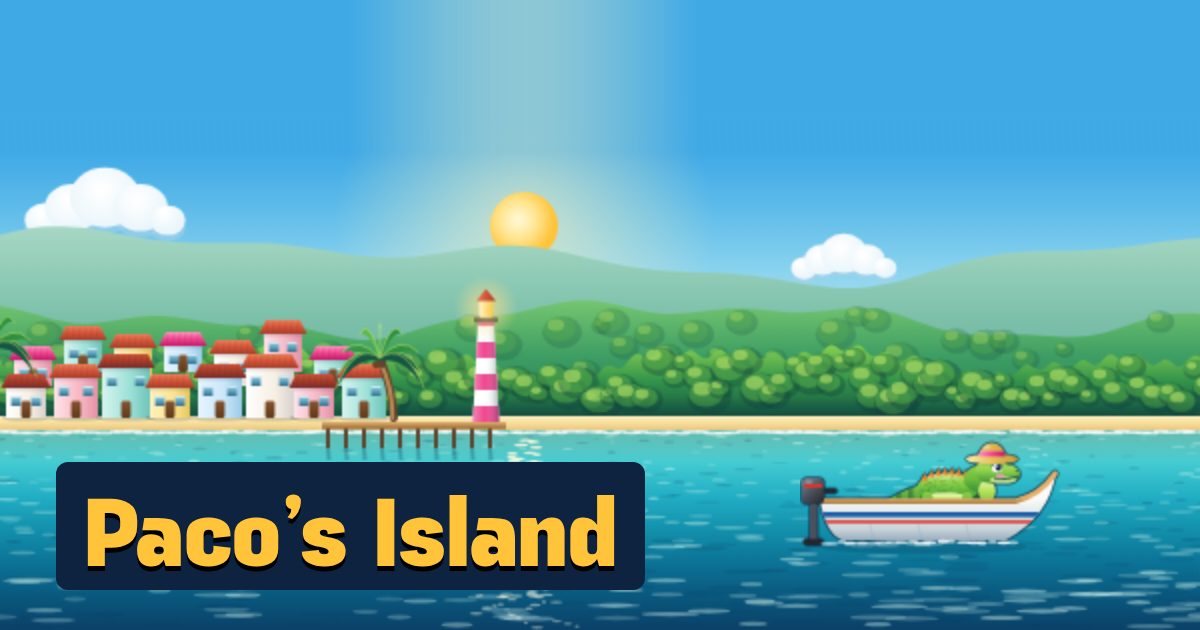
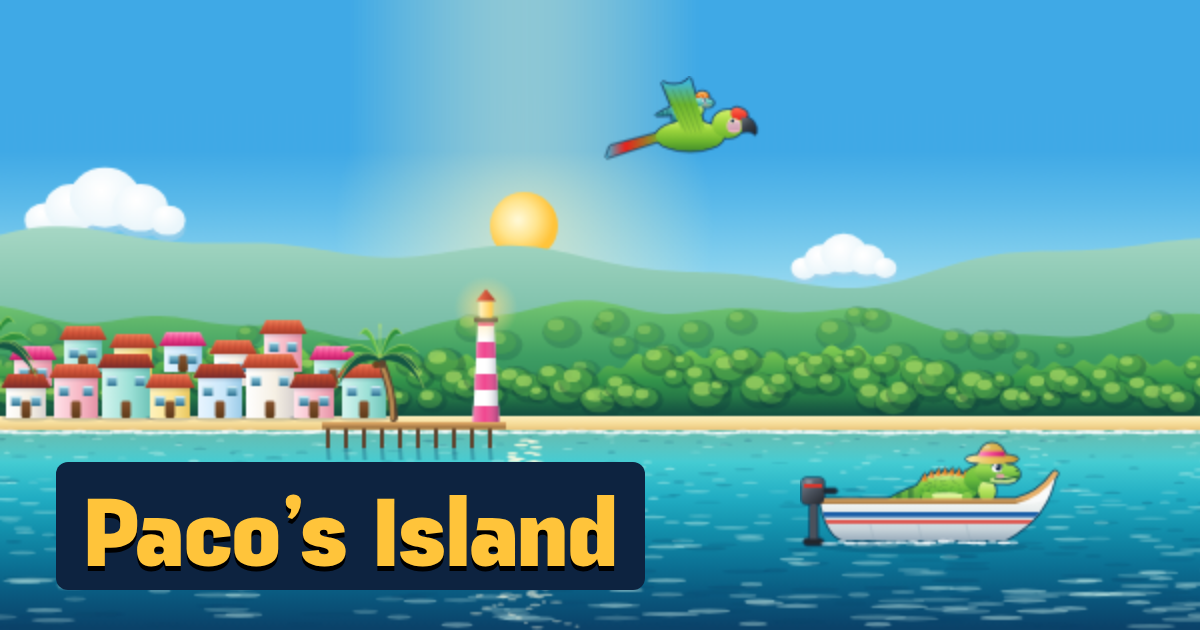
Share card with Mario and Esmeralda; clearer description and title intro
The card adds Esmeralda flying over the bay with Mario on her back.
The page and share description becomes "A daily trivia game. The rarer
your answer, the farther Paco the iguana takes you." The title intro
now fits every trip, not just the boat.

Changed region(s): [[0.4933, 0.1206, 0.6475, 0.2714]]

diff --git a/index.html b/index.html
@@ -4,7 +4,7 @@
 <meta charset="utf-8">
 <meta name="viewport" content="width=device-width, initial-scale=1, viewport-fit=cover">
 <title>Paco's Island</title>
-<meta name="description" content="Pacos Island is a daily trivia game where you try to find answers to random questions.">
+<meta name="description" content="A daily trivia game. The rarer your answer, the farther Paco the iguana takes you.">
 <meta name="theme-color" content="#095565">
 <link rel="manifest" href="manifest.webmanifest">
 <link rel="apple-touch-icon" href="icons/icon-180.png">
@@ -14,16 +14,16 @@
 <meta property="og:url" content="https://pacoisland.fun/">
 <meta property="og:site_name" content="Paco's Island">
 <meta property="og:title" content="Paco's Island">
-<meta property="og:description" content="Pacos Island is a daily trivia game where you try to find answers to random questions.">
+<meta property="og:description" content="A daily trivia game. The rarer your answer, the farther Paco the iguana takes you.">
 <meta property="og:image" content="https://pacoisland.fun/icons/og.png">
 <meta property="og:image:width" content="1200">
 <meta property="og:image:height" content="630">
-<meta property="og:image:alt" content="Paco the iguana in a straw hat rides a boat across a bay past a beach town with a striped lighthouse.">
+<meta property="og:image:alt" content="Paco the iguana rides a boat across a bay past a beach town and a striped lighthouse, while his twin Mario flies overhead on Esmeralda, a green macaw.">
 <meta name="twitter:card" content="summary_large_image">
 <meta name="twitter:title" content="Paco's Island">
-<meta name="twitter:description" content="Pacos Island is a daily trivia game where you try to find answers to random questions.">
+<meta name="twitter:description" content="A daily trivia game. The rarer your answer, the farther Paco the iguana takes you.">
 <meta name="twitter:image" content="https://pacoisland.fun/icons/og.png">
-<meta name="twitter:image:alt" content="Paco the iguana in a straw hat rides a boat across a bay past a beach town with a striped lighthouse.">
+<meta name="twitter:image:alt" content="Paco the iguana rides a boat across a bay past a beach town and a striped lighthouse, while his twin Mario flies overhead on Esmeralda, a green macaw.">
 <link rel="canonical" href="https://pacoisland.fun/">
 <link rel="icon" href="icons/favicon.svg" type="image/svg+xml">
 <link rel="preload" href="fonts/PPFuji-Bold.woff2" as="font" type="font/woff2" crossorigin>

diff --git a/tools/og.html b/tools/og.html
@@ -20,5 +20,8 @@ canvas { position: absolute; left: 0; top: 0; width: 1200px; height: 630px; }
   g.drawImage(strip, X, 0, 600, 240, 0, 75, 600, 240);
   const b = Art.boat(0);
   g.drawImage(b, 400, 75 + Art.COAST.horizon + 55 - b.height + 9);
+  // Esmeralda overhead, with Paco's twin Mario on her back
+  Art.setRider('mario'); const f = Art.flier(0); Art.setRider('paco');
+  g.drawImage(f, 300, 38);
   document.title = 'ready';
 </script></body></html>

diff --git a/js/copy.js b/js/copy.js
@@ -6,7 +6,7 @@
 'use strict';
 const Copy = {
   title: "Paco’s Island",
-  intro: 'Paco is an iguana with a boat. The rarer your answer, the farther he takes you.',
+  intro: 'Paco the iguana shows you around his island. The rarer your answer, the farther he takes you.',
   howHeading: 'How to play',
   how: [
     'Type a right answer before time runs out. Wrong guesses cost only time.',

diff --git a/tools/og.py b/tools/og.py
@@ -9,7 +9,8 @@ H = functools.partial(http.server.SimpleHTTPRequestHandler, directory=str(ROOT))
 H.log_message = lambda *a: None
 srv = socketserver.TCPServer(('127.0.0.1', 0), H); threading.Thread(target=srv.serve_forever, daemon=True).start()
 with sync_playwright() as p:
-    b = p.chromium.launch(executable_path='/usr/bin/google-chrome')
+    chrome = '/usr/bin/google-chrome'
+    b = p.chromium.launch(executable_path=chrome) if pathlib.Path(chrome).exists() else p.chromium.launch()
     pg = b.new_page(viewport={'width': 1200, 'height': 630})
     pg.goto(f'http://127.0.0.1:{srv.server_address[1]}/tools/og.html?x={x}')
     pg.wait_for_function("document.title === 'ready'"); pg.evaluate('document.fonts.ready'); pg.wait_for_timeout(300)

diff --git a/docs/aar/2026-11-17-share-card-and-intro.md b/docs/aar/2026-11-17-share-card-and-intro.md
@@ -1,0 +1,25 @@
+# After action record: share card, page description and title intro
+
+**Date:** November 17, 2026
+**Accountable human:** Ron Bronson, game owner
+
+## 1. Intent
+
+The owner said to update the title screen and the Open Graph card if it was time.
+
+## 2. Action
+
+- **Share card:** `tools/og.html` now adds Esmeralda flying over the bay with Mario on her back, above Paco in his boat, so the card shows both twins and the macaw. `icons/og.png` was rebuilt. `tools/og.py` falls back to Playwright's own Chromium when Google Chrome is not installed.
+- **Description:** the page, Open Graph, Twitter and app manifest descriptions said "Pacos Island is a daily trivia game where you try to find answers to random questions." It lacked its apostrophe and undersold the game. They now read "A daily trivia game. The rarer your answer, the farther Paco the iguana takes you." The image alt text names Mario and Esmeralda.
+- **Title intro:** "Paco is an iguana with a boat." no longer fit a game where he also walks, drives, flies and dives. It now reads "Paco the iguana shows you around his island. The rarer your answer, the farther he takes you."
+
+## 3. Checks
+
+- `node tools/check.mjs`: 0 problems.
+- `plain-language-default check` and `prosekeep check` ran on the new lines with no findings.
+- The card was rendered at 1200 x 630 and reviewed. The title screen was checked at phone size with no page errors.
+
+## 4. Gaps
+
+- `og.png` was rendered with Playwright's bundled Chromium, not Google Chrome as before; the card's fonts and art match the earlier one.
+- Share previews on social sites cache old cards; a new share may still show the old image for a while.
